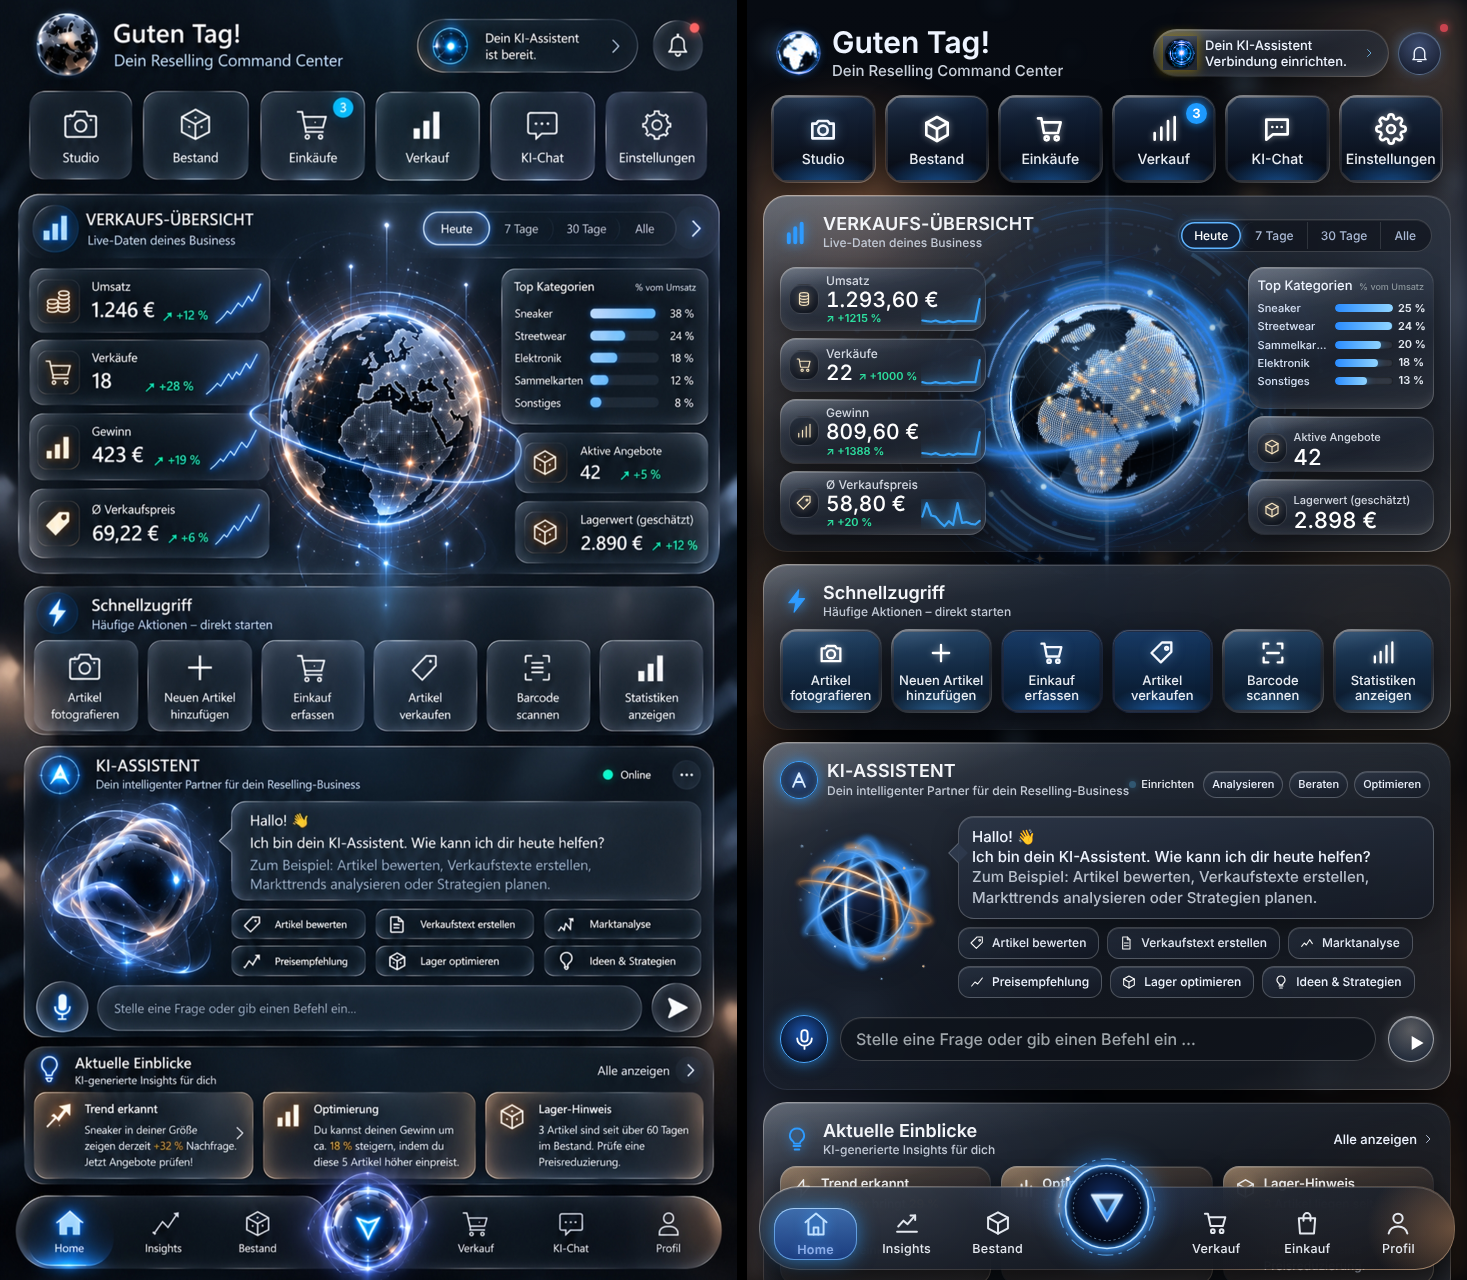
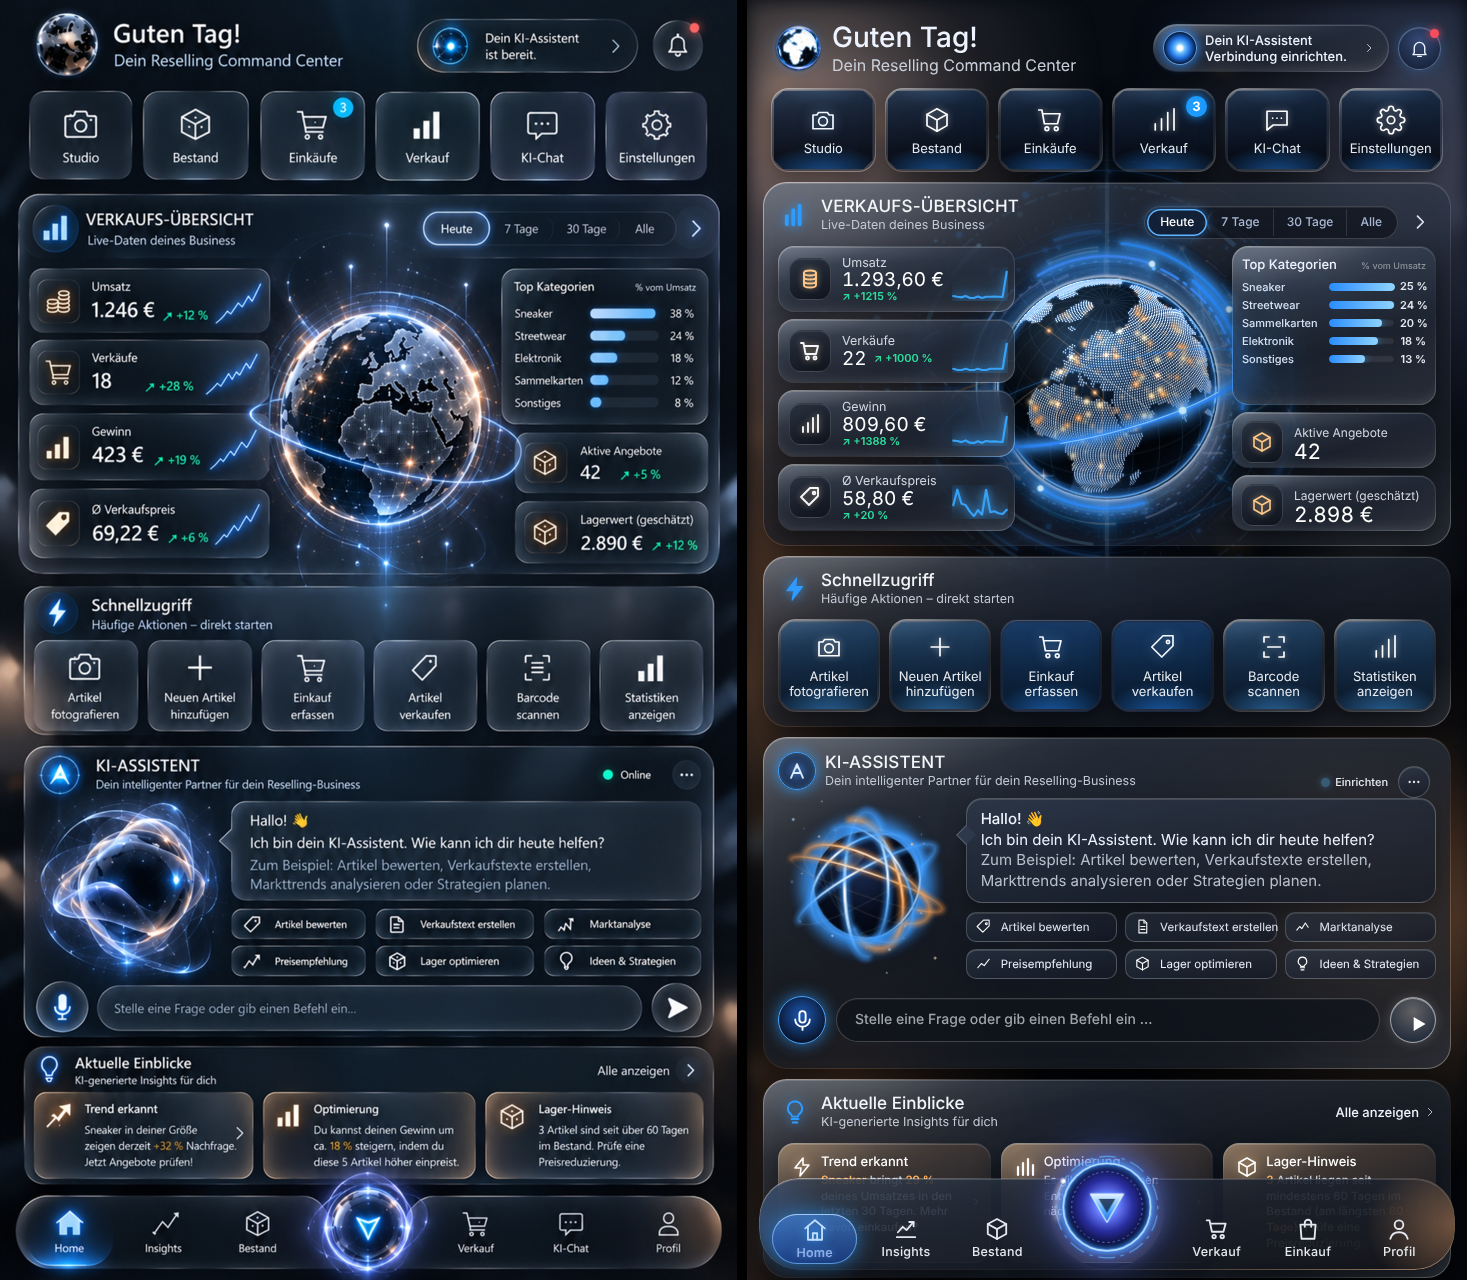
Startseite 1:1-Abgleich mit der Vorlage
- Leichtere, kompaktere Typografie, Kacheln und Abschnitte wie in der Vorlage
- Spaltenbreiten der Verkaufs-Übersicht, größere Symbolkästen, Pfeil neben dem Zeitraum
- KI-Bereich: Status + Drei-Punkte-Menü (Analysieren/Beraten/Optimieren ausklappbar)
- Kompaktere Vorschläge, Eingabe und Einblick-Karten
- KI-Pill mit blauem Leuchtpunkt, Glocke mit rotem Punkt
- Menü mit Aussparung für den Ring, violett-blau leuchtender Mittelring
- Größerer Energieball

Claude-Session: https://claude.ai/code/session_0194bcZ5PbUBuV3hzmwdGD96

Changed region(s): [[0.4908, 0.0, 1.0, 1.0]]

diff --git a/public/theme.css b/public/theme.css
@@ -375,3 +375,123 @@ body:has(#home:not(.hidden)) .v11-ai .rv-crafted-chat #homeAiSend, .cc-send {
 .v15-globe-wrap .v11-globe { opacity:.22 !important; }
 .v15-globe-wrap .cc-globe-hud { opacity:.85; }
 .v15-globe-wrap .cc-earth { box-shadow:0 0 4px 1px rgba(225,240,255,.9), 0 0 24px 5px rgba(70,160,255,.55), 14px 4px 34px -6px rgba(255,165,95,.45), 0 0 70px 18px rgba(40,110,230,.2) !important; }
+
+/* ===================== 1:1-Abgleich Startseite ===================== */
+/* Kompaktere, leichtere Typografie */
+.v11 { gap:10px !important; }
+body:has(#home:not(.hidden)) main.wrap { padding-top:18px !important; }
+.v11-greet b { font-size:28px !important; font-weight:500 !important; }
+.v11-greet span { font-size:16px !important; font-weight:400 !important; }
+.v11-tile { min-height:84px !important; gap:7px !important; }
+.v11-tile .ic, .v11-q .ic { width:30px !important; height:30px !important; }
+.v11-tile .ic .v11-ico, .v11-q .ic .v11-ico, .v11-tile .v11-ico, .v11-q .v11-ico { stroke-width:1.35 !important; }
+.v11-tile .lb, .v11-q .lb { font-size:13px !important; font-weight:400 !important; }
+.v11-panel { padding:14px 14px 14px !important; }
+.v11-title { font-size:17px !important; font-weight:500 !important; }
+.v11-sub { font-size:12.5px !important; font-weight:400 !important; }
+.v11-ph { margin-bottom:12px !important; }
+.v11-q { min-height:86px !important; gap:7px !important; padding:12px 4px !important; }
+
+/* Pfeil neben dem Zeitraum-Umschalter */
+.v11-sales > .v11-seg { right:52px !important; }
+.v11 .cc-seg-next { position:absolute !important; right:16px; top:27px; z-index:3; width:28px; height:28px; padding:4px; border:0; background:none; color:#dfe6f1; cursor:pointer; }
+.cc-seg-next svg { width:100%; height:100%; }
+@media(max-width:999px) { .v11 .cc-seg-next { top:25px; } }
+
+/* Kennzahlen: größere Symbolkästen, Werte schlanker, Veränderung in der Zeile */
+.v11-m { grid-template-columns:42px minmax(0,1fr) !important; gap:11px !important; padding:9px 10px !important; min-height:64px !important; }
+.v11-m .mi, .v11-s2 .mi { width:42px !important; height:42px !important; padding:8px !important; }
+.v11-s2 { grid-template-columns:42px minmax(0,1fr) !important; gap:11px !important; }
+.v11-m .lbl, .v11-s2 .lbl { font-size:12.5px !important; font-weight:400 !important; }
+.v11-m .val, .v11-s2 .val { font-size:21px !important; font-weight:400 !important; }
+.v11-m .tx { flex-wrap:nowrap !important; row-gap:2px; }
+.v11-m .tx { display:grid !important; grid-template-columns:auto 1fr !important; }
+.v11-m .lbl { grid-column:1/-1; }
+.v11-m .dl { font-size:11px !important; align-self:center; }
+.v11-m.has-trend .tx { padding-right:58px !important; }
+.v11-m svg.spark { width:64px !important; height:34px !important; right:6px !important; bottom:auto !important; top:50% !important; transform:translateY(-35%); }
+
+/* Globus größer, Ring dezenter, Bahn kräftiger */
+.v15-globe-wrap { width:350px !important; height:350px !important; }
+@media(min-width:1000px) { .v15-globe-wrap { width:440px !important; height:440px !important; } }
+.v15-globe-wrap .cc-earth { box-shadow:0 0 3px 1px rgba(225,240,255,.9), 0 0 16px 3px rgba(80,165,255,.5), 14px 4px 30px -8px rgba(255,165,95,.45), 0 0 50px 12px rgba(40,110,230,.14) !important; }
+.v15-globe-wrap .cc-globe-hud { opacity:.55 !important; }
+.v15-globe-wrap .cc-globe-bg { opacity:.35 !important; }
+.v11-sales .body > .v11-col { z-index:2; }
+
+/* KI-Bereich: Status + „…“, Aktionen im Ausklappmenü */
+.v11-ai .v11-state { gap:10px !important; }
+.v11-ai .v11-state .v11-modes { display:none; position:absolute; right:0; top:40px; flex-direction:column; gap:6px; padding:8px; border-radius:14px; z-index:5;
+  background:linear-gradient(170deg, rgba(52,64,84,.95), rgba(20,26,38,.97)); border:1px solid rgba(255,255,255,.2); box-shadow:0 12px 28px rgba(0,0,0,.5); }
+.v11-ai .v11-state.cc-open .v11-modes { display:flex; }
+.v11-ai .v11-state .v11-modes button { min-width:120px; text-align:left; }
+.v11-ai .on::before { width:9px !important; height:9px !important; }
+.cc-more { width:32px; height:32px; padding:7px; border-radius:50%; border:1px solid rgba(255,255,255,.22); color:#e9edf3; cursor:pointer;
+  background:linear-gradient(170deg, rgba(52,64,84,.6), rgba(20,26,38,.7)); box-shadow:inset 0 1px 0 rgba(255,255,255,.14); }
+.cc-more svg { width:100%; height:100%; display:block; }
+.v11-ai .v11-ph { padding-right:150px !important; }
+.v11-chatrow { grid-template-columns:27% minmax(0,1fr) !important; gap:10px !important; }
+.v11-bubble { font-size:15px !important; font-weight:400 !important; padding:10px 14px !important; line-height:1.38 !important; }
+.v11-prompts { gap:7px 8px !important; margin-top:9px !important; display:grid !important; grid-template-columns:repeat(3,minmax(0,1fr)) !important; }
+.v11-prompts button { min-height:30px !important; font-size:11.5px !important; font-weight:400 !important; padding:4px 8px !important; border-radius:10px !important; justify-content:flex-start !important; gap:9px !important; }
+.v11-prompts .v11-ico { width:17px !important; height:17px !important; }
+body:has(#home:not(.hidden)) .v11-ai .rv-crafted-chat { margin-top:10px !important; gap:10px !important; }
+body:has(#home:not(.hidden)) .v11-ai .rv-crafted-chat textarea { height:44px !important; min-height:44px !important; padding:11px 18px !important; font-size:14px !important; }
+body:has(#home:not(.hidden)) .v11-ai .rv-crafted-chat-icon, body:has(#home:not(.hidden)) .v11-ai .rv-crafted-chat #homeAiSend { width:46px !important; height:46px !important; min-height:46px !important; flex-basis:46px !important; }
+
+/* Einblicke kompakter */
+.v11-card { padding:10px 11px 11px !important; min-height:0 !important; gap:8px !important; }
+.v11-card b { font-size:13px !important; font-weight:500 !important; }
+.v11-card p { font-size:11.5px !important; line-height:1.35 !important; }
+.v11-card .ci { width:24px !important; height:24px !important; }
+
+/* Menü: Leiste mit Aussparung für den Ring, aktive Seite füllt die Ecke */
+.lux-bottomnav { background:none !important; border:0 !important; box-shadow:none !important; -webkit-backdrop-filter:none !important; backdrop-filter:none !important; }
+.lux-bottomnav::before { content:''; position:absolute; inset:0; z-index:-1; border-radius:40px; border:1px solid transparent; pointer-events:none;
+  background:
+    radial-gradient(ellipse 18% 120% at 100% 50%, rgba(255,175,110,.38), transparent 70%) padding-box,
+    radial-gradient(ellipse 14% 120% at 0% 50%, rgba(80,150,255,.25), transparent 70%) padding-box,
+    linear-gradient(170deg, rgba(40,50,66,.84), rgba(10,13,20,.94)) padding-box,
+    linear-gradient(160deg, rgba(255,255,255,.5), rgba(255,255,255,.1) 30%, rgba(255,255,255,.06) 60%, rgba(255,200,150,.6)) border-box;
+  box-shadow:0 14px 34px rgba(0,0,0,.6), inset 0 1px 0 rgba(255,255,255,.16);
+  -webkit-mask-image:radial-gradient(circle 62px at 50% 34%, transparent 97%, #000 100%); mask-image:radial-gradient(circle 62px at 50% 34%, transparent 97%, #000 100%); }
+.lux-bottomnav button:not(.orb)::before { inset:2px 3px !important; border-radius:26px !important; }
+.lux-bottomnav .orb { margin-top:-30px !important; }
+.lux-bottomnav .orb svg.cc-navorb { width:118px !important; height:118px !important; filter:drop-shadow(0 0 10px rgba(120,150,255,.9)) drop-shadow(0 0 26px rgba(90,110,255,.55)) !important; }
+/* Feinschliff 2 */
+.v11-m .tx { display:flex !important; flex-wrap:wrap !important; column-gap:7px !important; row-gap:1px !important; }
+.v11-m .lbl { flex:0 0 100%; }
+.v11-m .val { font-size:20px !important; }
+.v11-m.has-trend .tx { padding-right:60px !important; }
+.v11-s2 .lbl { font-size:12px !important; white-space:nowrap; overflow:hidden; text-overflow:ellipsis; }
+.v11-s2 > div, .v11-s2 .tx { min-width:0; }
+.v15-globe-wrap { width:330px !important; height:330px !important; }
+.v15-bot-frame { margin:-10px 0 !important; }
+.v11-ai .v11-ph { margin-bottom:8px !important; }
+.v11-ai .v11-chatrow { align-items:center !important; }
+body:has(#home:not(.hidden)) .v11-ai .rv-crafted-chat { margin-top:8px !important; }
+.lux-bottomnav { padding:4px 10px calc(4px + env(safe-area-inset-bottom,0px)) !important; }
+.lux-bottomnav button:not(.orb) { min-height:54px !important; gap:4px !important; }
+.lux-bottomnav button:not(.orb) svg { width:26px !important; height:26px !important; }
+.lux-bottomnav .orb { min-height:70px !important; margin-top:-34px !important; }
+.lux-bottomnav::before { -webkit-mask-image:radial-gradient(circle 58px at 50% 36%, transparent 97%, #000 100%); mask-image:radial-gradient(circle 58px at 50% 36%, transparent 97%, #000 100%); }
+body:has(#home:not(.hidden)) main.wrap { padding-bottom:110px !important; }
+.v11-s2 > span:not(.mi) { min-width:0; overflow:hidden; } .v11-s2 .lbl { display:inline-block; max-width:100%; vertical-align:bottom; }
+/* Feinschliff 3: Spalten wie in der Vorlage, Kennzahl in einer Zeile */
+.v11-sales .body { grid-template-columns:minmax(0,36%) minmax(0,33%) minmax(0,31%) !important; }
+.v11-m .tx { flex-wrap:wrap !important; }
+.v11-m .lbl { white-space:nowrap; overflow:hidden; text-overflow:ellipsis; }
+.v11-m .val { font-size:19px !important; }
+.v11-m .dl { white-space:nowrap; }
+.v11-m.has-trend .tx { padding-right:54px !important; }
+.v11-m svg.spark { width:56px !important; }
+.v15-globe-wrap .cc-globe-hud { opacity:.95 !important; }
+.v11-m .mi, .v11-s2 .mi { color:#f5f7fb !important; }
+.v11-m:first-child .mi, .v11-s2 .mi { color:#ffc98a !important; }
+.v11-m .mi .v11-ico { stroke-width:1.9 !important; }
+/* KI-Pill oben: blauer Leuchtpunkt wie in der Vorlage */
+.v11-pill .dot { background:radial-gradient(circle, #ffffff 0 10%, #6fc0ff 22%, #1f6fe0 45%, #071a3a 70%) !important; border-radius:50%;
+  border:1.5px solid rgba(120,190,255,.8); box-shadow:0 0 12px rgba(61,155,255,.8), inset 0 0 6px rgba(160,210,255,.5); filter:none !important; }
+.v11-pill > svg:not(.hud-frame) { color:#dfe6f1 !important; }
+.v11-pill { border-radius:999px !important; }
+.v11-bell { position:relative !important; } .v11-bell.has-tasks i { top:1px !important; right:1px !important; width:9px !important; height:9px !important; }

diff --git a/public/fx.js b/public/fx.js
@@ -621,8 +621,8 @@
     function A(tag, at, p) { var e = svgEl(tag, at); (p || S).appendChild(e); return e; }
     function grad(type, gid, at, stops) { var g = svgEl(type, Object.assign({ id: id + gid }, at || {})); stops.forEach(function (q) { g.appendChild(svgEl('stop', { offset: q[0], 'stop-color': q[1], 'stop-opacity': q[2] == null ? '1' : q[2] })); }); d.appendChild(g); }
     var f = svgEl('filter', { id: id + 'g', x: '-60%', y: '-60%', width: '220%', height: '220%' }); f.appendChild(svgEl('feGaussianBlur', { stdDeviation: '2.2' })); d.appendChild(f);
-    grad('radialGradient', 'h', {}, [['0', '#3d9bff', '.6'], ['.55', '#1f5fd0', '.25'], ['1', '#000', '0']]);
-    grad('radialGradient', 'k', { cx: '.5', cy: '.4', r: '.6' }, [['0', '#12306a'], ['.7', '#050c1e'], ['1', '#02050e']]);
+    grad('radialGradient', 'h', {}, [['0', '#8a7cff', '.75'], ['.55', '#4a5cf0', '.35'], ['1', '#000', '0']]);
+    grad('radialGradient', 'k', { cx: '.5', cy: '.48', r: '.55' }, [['0', '#c8d6ff'], ['.25', '#6a7cff'], ['.55', '#2a2fa0'], ['.85', '#0b0d38'], ['1', '#05061a']]);
     grad('linearGradient', 'l', { x1: '0', y1: '0', x2: '1', y2: '0' }, [['0', '#7cc4ff', '0'], ['.5', '#ffffff'], ['1', '#7cc4ff', '0']]);
     grad('linearGradient', 't', { x1: '0', y1: '0', x2: '0', y2: '1' }, [['0', '#e6f4ff'], ['.5', '#5fb4ff'], ['1', '#1f6fe0']]);
     A('circle', { cx: 50, cy: 50, r: 50, fill: 'url(#' + id + 'h)', class: 'cc-field-halo' });
@@ -646,7 +646,7 @@
   function setupRobot() {
     var f = doc.querySelector('.v15-bot-frame'); if (!f || f.querySelector('.cc-orb')) return;
     Array.prototype.slice.call(f.children).forEach(function (c) { c.remove(); });
-    buildOrb(f, { R: 54 });
+    buildOrb(f, { R: 60 });
     var chat = doc.getElementById('ccChatBot'); if (chat && !chat.querySelector('.cc-orb')) { chat.innerHTML = ''; buildOrb(chat, { R: 54, pedestal: true }); }
     var av = doc.getElementById('ccChatAvatar'); if (av && !av.querySelector('.cc-orb')) { av.innerHTML = ''; buildOrb(av, { R: 54 }); }
   }

diff --git a/public/dashboard.js b/public/dashboard.js
@@ -208,6 +208,8 @@ function bind(){
   var sales=$('navSales');if(sales)sales.addEventListener('click',function(){click('navStock');setTimeout(function(){var tab=document.querySelector('[data-v5-tab="all"]');if(tab)tab.click();var f=document.querySelector('[data-stock-filter="sold"]');if(f)f.click();var e=$('navSales');if(e){document.querySelectorAll('#bottomnav button').forEach(function(b){b.classList.toggle('selected',b===e);if(b===e)b.setAttribute('aria-current','page');else b.removeAttribute('aria-current')})}},90)});
   var mic=document.querySelector('#v11Root .rv-crafted-chat-icon');if(mic){mic.addEventListener('click',listen)}
   var np=$('navPurchases');if(np)np.addEventListener('click',function(){actions.purchases();setTimeout(function(){document.querySelectorAll('#bottomnav button').forEach(function(b){var on=b===np;b.classList.toggle('selected',on);if(on)b.setAttribute('aria-current','page');else b.removeAttribute('aria-current')})},200)});
+  var more2=$('ccAiMore');if(more2)more2.addEventListener('click',function(e){e.stopPropagation();var st=more2.parentNode,open=!st.classList.contains('cc-open');st.classList.toggle('cc-open',open);more2.setAttribute('aria-expanded',open?'true':'false')});
+  document.addEventListener('click',function(e){var st=document.querySelector('#v11Root .v11-state.cc-open');if(st&&!st.contains(e.target)){st.classList.remove('cc-open');if(more2)more2.setAttribute('aria-expanded','false')}});
   var cc=$('ccChat');
   if(cc)cc.addEventListener('click',function(e){
     var b=e.target.closest&&e.target.closest('[data-go]');

diff --git a/public/index.html b/public/index.html
@@ -159,6 +159,7 @@
 <button type="button" data-period="30" aria-pressed="false">30 Tage</button>
 <button type="button" data-period="all" aria-pressed="false">Alle</button>
 </div>
+<button type="button" class="cc-seg-next" data-go="finance" aria-label="Zur Finanzübersicht"><svg viewBox="0 0 24 24" aria-hidden="true"><path d="m9 5 7 7-7 7" fill="none" stroke="currentColor" stroke-width="2" stroke-linecap="round" stroke-linejoin="round"/></svg></button>
 <div class="body">
 <div class="v15-globe-wrap" aria-hidden="true">
 <img class="v11-globe" src="/v11-globe.webp" alt="" width="680" height="680" fetchpriority="high">
@@ -353,6 +354,7 @@
 <button type="button" data-ai-request="Berate mich bei meinen nächsten Schritten">Beraten</button>
 <button type="button" data-ai-request="Wie kann ich mein Business optimieren?">Optimieren</button>
 </span>
+<button type="button" class="cc-more" id="ccAiMore" aria-label="Weitere KI-Aktionen" aria-expanded="false"><svg viewBox="0 0 24 24" aria-hidden="true"><circle cx="5.5" cy="12" r="1.7" fill="currentColor"/><circle cx="12" cy="12" r="1.7" fill="currentColor"/><circle cx="18.5" cy="12" r="1.7" fill="currentColor"/></svg></button>
 </div>
 <div class="v11-chatrow">
 <div class="v15-bot-frame" aria-label="KI-Assistent">

diff --git a/public/sw.js b/public/sw.js
@@ -1,4 +1,4 @@
-const CACHE='rv-studio-v19-blueglass-3';
+const CACHE='rv-studio-v19-blueglass-4';
 const FILES=['/','/index.html','/app.css','/dashboard.css','/fx.css','/ref.css','/theme.css','/app.js','/dashboard.js','/fx.js',
   '/vendor/jszip.min.js','/fonts/command-sans-regular.otf','/fonts/command-sans-bold.otf',
   '/rv-logo.jpg','/rv-ai-mascot.png','/rv-robot-premium.png','/rv-white.png',
